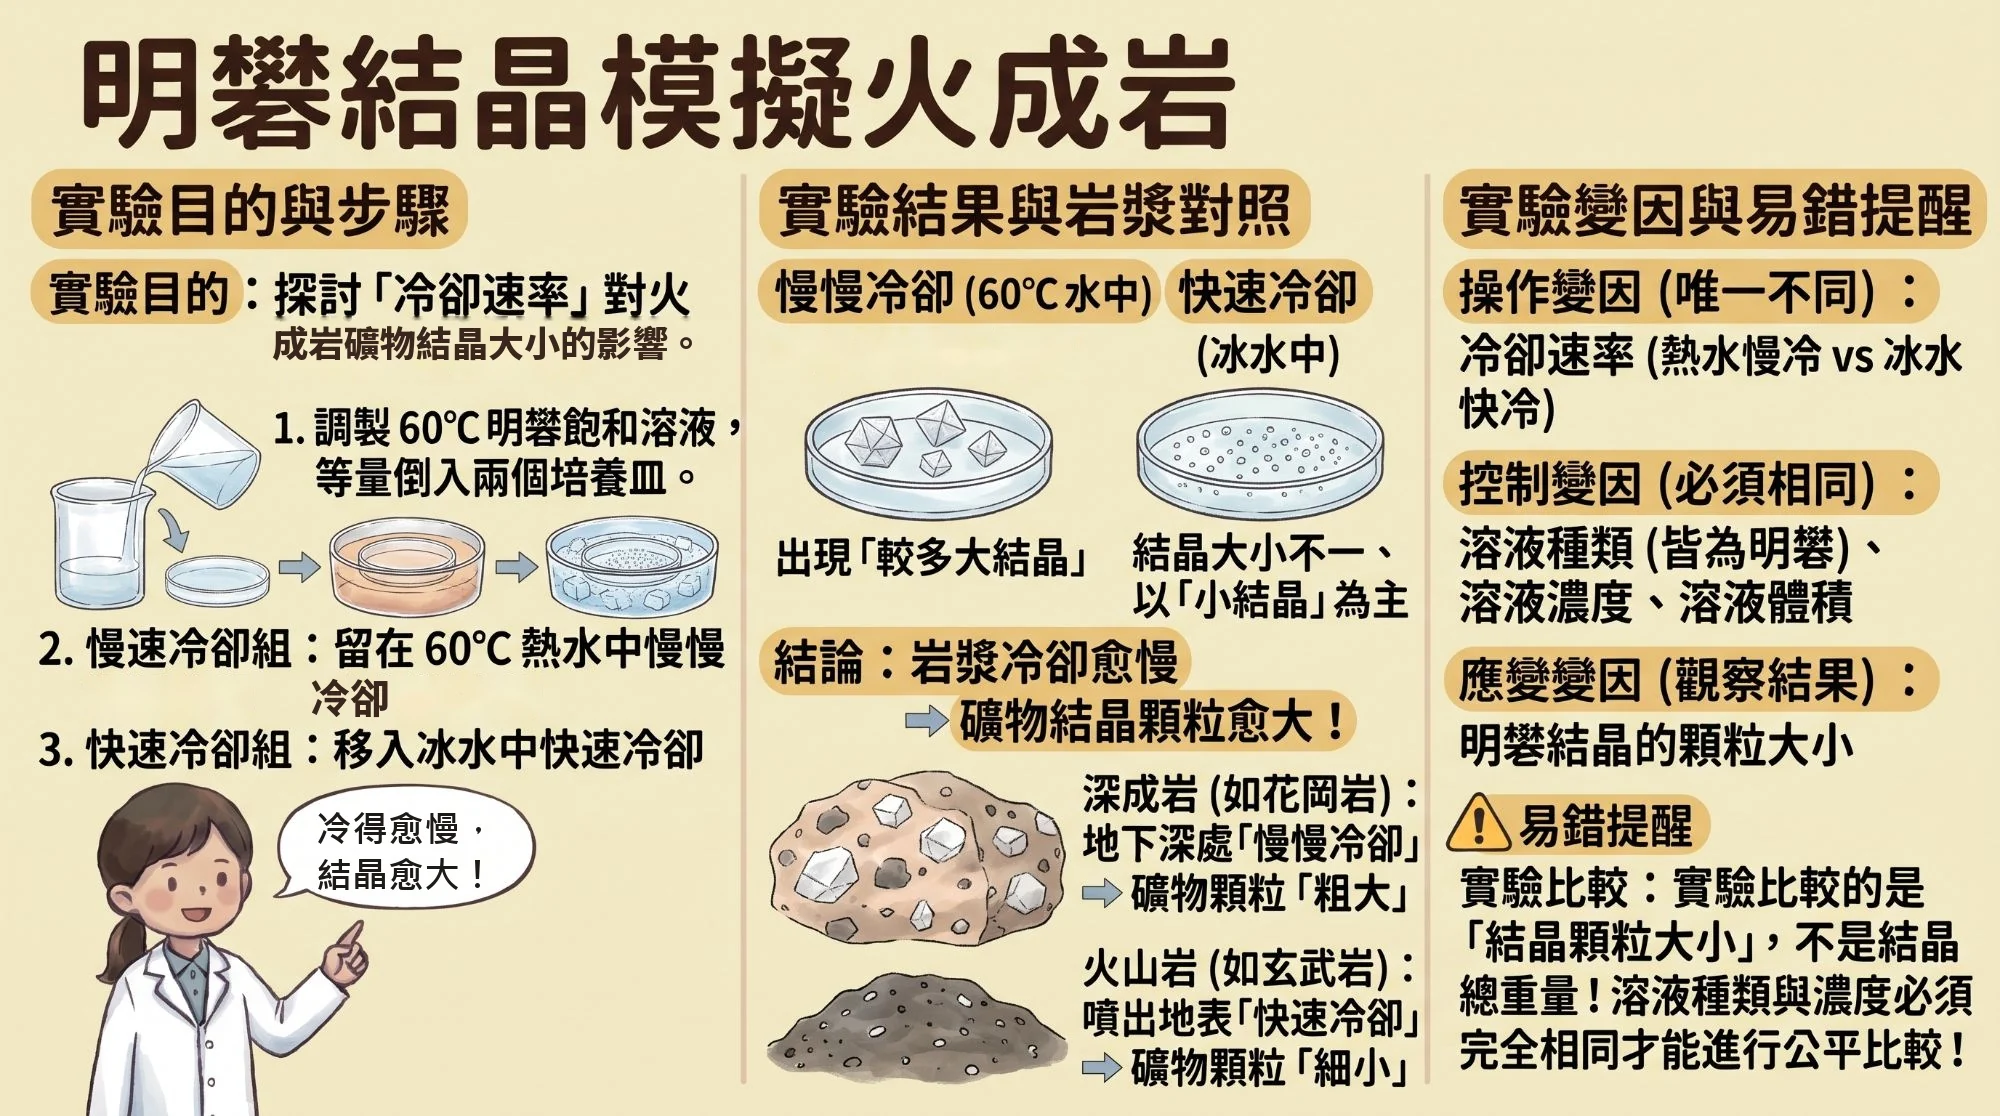
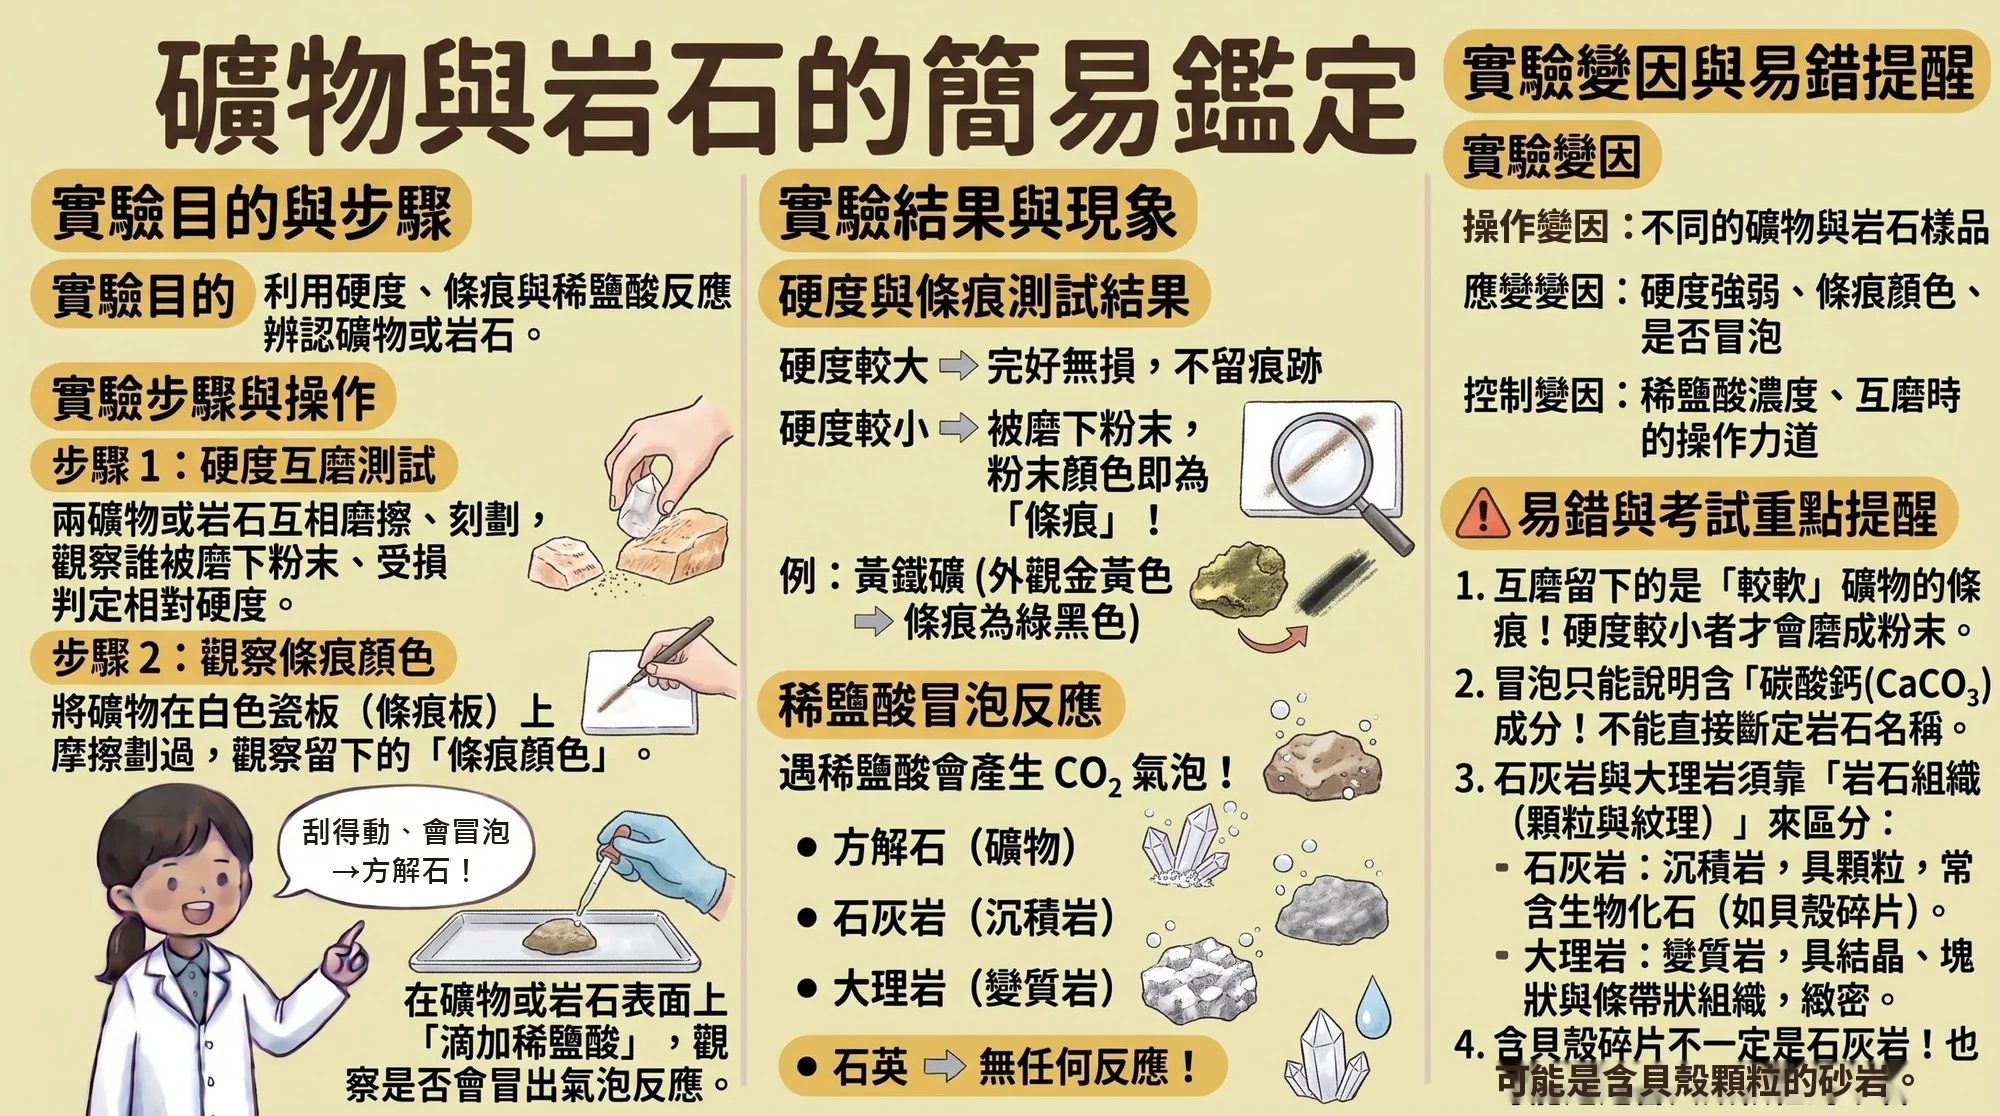
地科實驗圖解：礦物鑑定、沖積扇、突堤效應、土壤液化

diff --git a/assets/comics.js b/assets/comics.js
@@ -1,2 +1,2 @@
 // 漫畫清單（2026-11-19）：單元標題下的「看漫畫」按鈕。dir 在基地版會換成 comic/
-window.COMICS = { dir: '../assets/comic/', ...{"civics": {"2": [{"file": "civics-u2.webp", "title": "阿明家的家庭日：家庭型態與功能", "kind": "story"}], "3": [{"file": "civics-u3.webp", "title": "", "kind": "key"}], "4": [{"file": "civics-u4.webp", "title": "", "kind": "key"}], "5": [{"file": "civics-u5.webp", "title": "", "kind": "key"}], "6": [{"file": "civics-u6.webp", "title": "", "kind": "key"}], "7": [{"file": "civics-u7.webp", "title": "", "kind": "key"}], "8": [{"file": "civics-u8.webp", "title": "阿翔的電競筆電：民法管的是哪些事？", "kind": "story"}, {"file": "civics-u8-2.webp", "title": "", "kind": "key"}], "9": [{"file": "civics-u9.webp", "title": "腳踏車不見了：一件刑事案件怎麼走？", "kind": "story"}, {"file": "civics-u9-2.webp", "title": "", "kind": "key"}], "10": [{"file": "civics-u10.webp", "title": "阿翔家的一週：行政法和少年法律", "kind": "story"}, {"file": "civics-u10-2.webp", "title": "", "kind": "key"}], "11": [{"file": "civics-u11.webp", "title": "阿翔的星期六：選擇、誘因與資源分配", "kind": "story"}, {"file": "civics-u11-2.webp", "title": "", "kind": "key"}], "12": [{"file": "civics-u12.webp", "title": "", "kind": "key"}], "13": [{"file": "civics-u13.webp", "title": "", "kind": "key"}], "14": [{"file": "civics-u14.webp", "title": "", "kind": "key"}]}, "earth": {"1": [{"file": "earth-u1.webp", "title": "明礬結晶模擬火成岩", "kind": "lab"}]}, "history": {"2": [{"file": "history-u2.webp", "title": "東亞海域的各方勢力", "kind": "key"}, {"file": "history-u2-2.webp", "title": "荷、西在臺灣的競爭", "kind": "key"}, {"file": "history-u2-3.webp", "title": "荷蘭人治臺", "kind": "key"}, {"file": "history-u2-4.webp", "title": "鄭氏政權治臺", "kind": "key"}, {"file": "history-u2-5.webp", "title": "原住民與外來者的互動", "kind": "key"}], "3": [{"file": "history-u3.webp", "title": "清帝國前期的消極治臺與行政區劃", "kind": "key"}, {"file": "history-u3-2.webp", "title": "外力衝擊與積極治臺", "kind": "key"}, {"file": "history-u3-3.webp", "title": "農業拓墾與水利設施", "kind": "key"}, {"file": "history-u3-4.webp", "title": "對渡貿易與開港通商", "kind": "key"}, {"file": "history-u3-5.webp", "title": "移民社會的衝突：械鬥與民變", "kind": "key"}, {"file": "history-u3-6.webp", "title": "漢人社會文化變遷與西方文化傳入", "kind": "key"}, {"file": "history-u3-7.webp", "title": "原住民的社會文化變遷", "kind": "key"}], "4": [{"file": "history-u4.webp", "title": "殖民體制的建立", "kind": "key"}, {"file": "history-u4-2.webp", "title": "統治政策的轉變", "kind": "key"}, {"file": "history-u4-3.webp", "title": "日治時期的經濟發展", "kind": "key"}, {"file": "history-u4-4.webp", "title": "現代教育與社會運動", "kind": "key"}, {"file": "history-u4-5.webp", "title": "新舊文化的交替與衝擊", "kind": "key"}], "5": [{"file": "history-u5.webp", "title": "政權轉換與二二八事件", "kind": "key"}, {"file": "history-u5-2.webp", "title": "威權體制與白色恐怖", "kind": "key"}, {"file": "history-u5-3.webp", "title": "從戒嚴到民主化", "kind": "key"}, {"file": "history-u5-4.webp", "title": "外交局勢", "kind": "key"}, {"file": "history-u5-5.webp", "title": "兩岸關係", "kind": "key"}, {"file": "history-u5-6.webp", "title": "經濟發展及其影響", "kind": "key"}, {"file": "history-u5-7.webp", "title": "社會文化的變遷", "kind": "key"}], "6": [{"file": "history-u6.webp", "title": "商周的封建制度", "kind": "key"}, {"file": "history-u6-2.webp", "title": "東周的變革與封建崩解", "kind": "key"}, {"file": "history-u6-3.webp", "title": "秦朝的中央集權", "kind": "key"}, {"file": "history-u6-4.webp", "title": "選才制度的發展", "kind": "key"}, {"file": "history-u6-5.webp", "title": "農牧民族的互動與絲路", "kind": "key"}, {"file": "history-u6-6.webp", "title": "魏晉南北朝的胡漢融合與江南開發", "kind": "key"}, {"file": "history-u6-7.webp", "title": "隋唐的民族互動", "kind": "key"}, {"file": "history-u6-8.webp", "title": "宗教傳入與中國文化外傳", "kind": "key"}], "7": [{"file": "history-u7.webp", "title": "遼宋金的和戰", "kind": "key"}, {"file": "history-u7-2.webp", "title": "蒙古帝國與元朝統治", "kind": "key"}, {"file": "history-u7-3.webp", "title": "宋元的經濟與城市發展", "kind": "key"}, {"file": "history-u7-4.webp", "title": "宋元的學術科技與文化交流", "kind": "key"}, {"file": "history-u7-5.webp", "title": "明清政局變遷", "kind": "key"}, {"file": "history-u7-6.webp", "title": "天朝體制與東亞國際秩序", "kind": "key"}, {"file": "history-u7-7.webp", "title": "明清的商貿活動", "kind": "key"}, {"file": "history-u7-8.webp", "title": "明清的中西文化交流", "kind": "key"}], "8": [{"file": "history-u8.webp", "title": "鴉片戰爭與不平等條約", "kind": "key"}, {"file": "history-u8-2.webp", "title": "英法聯軍與自強運動", "kind": "key"}, {"file": "history-u8-3.webp", "title": "日本明治維新與東亞變局", "kind": "key"}, {"file": "history-u8-4.webp", "title": "甲午戰爭、瓜分危機與戊戌變法", "kind": "key"}, {"file": "history-u8-5.webp", "title": "八國聯軍、庚子後新政與立憲運動", "kind": "key"}, {"file": "history-u8-6.webp", "title": "晚清社會文化的變遷", "kind": "key"}], "9": [{"file": "history-u9.webp", "title": "辛亥革命與民國建立", "kind": "key"}, {"file": "history-u9-2.webp", "title": "袁世凱當權與軍閥統治", "kind": "key"}, {"file": "history-u9-3.webp", "title": "山東問題與五四運動", "kind": "key"}, {"file": "history-u9-4.webp", "title": "新文化運動與社會變遷", "kind": "key"}, {"file": "history-u9-5.webp", "title": "北伐統一與十年建設", "kind": "key"}, {"file": "history-u9-6.webp", "title": "國共衝突與西安事變", "kind": "key"}, {"file": "history-u9-7.webp", "title": "日本擴張與中日戰爭", "kind": "key"}, {"file": "history-u9-8.webp", "title": "太平洋戰爭與戰時外交", "kind": "key"}], "10": [{"file": "history-u10.webp", "title": "國共內戰", "kind": "key"}, {"file": "history-u10-2.webp", "title": "中共建政初期與文化大革命", "kind": "key"}, {"file": "history-u10-3.webp", "title": "改革開放與六四天安門事件", "kind": "key"}, {"file": "history-u10-4.webp", "title": "冷戰與韓戰、越戰", "kind": "key"}, {"file": "history-u10-5.webp", "title": "中美蘇關係的轉變", "kind": "key"}, {"file": "history-u10-6.webp", "title": "東南亞地區的國際組織", "kind": "key"}], "11": [{"file": "history-u11.webp", "title": "西亞古文明", "kind": "key"}, {"file": "history-u11-2.webp", "title": "埃及古文明", "kind": "key"}, {"file": "history-u11-3.webp", "title": "希臘古典文明", "kind": "key"}, {"file": "history-u11-4.webp", "title": "亞歷山大帝國與希臘化文化", "kind": "key"}, {"file": "history-u11-5.webp", "title": "羅馬的政治與文化", "kind": "key"}, {"file": "history-u11-6.webp", "title": "佛教的起源與發展", "kind": "key"}, {"file": "history-u11-7.webp", "title": "基督教的起源與發展", "kind": "key"}, {"file": "history-u11-8.webp", "title": "伊斯蘭教的起源與發展", "kind": "key"}], "12": [{"file": "history-u12.webp", "title": "文藝復興", "kind": "key"}, {"file": "history-u12-2.webp", "title": "宗教改革", "kind": "key"}, {"file": "history-u12-3.webp", "title": "大航海時代與歐洲海外擴張", "kind": "key"}, {"file": "history-u12-4.webp", "title": "歐洲殖民與多元世界的互動", "kind": "key"}, {"file": "history-u12-5.webp", "title": "科學革命", "kind": "key"}, {"file": "history-u12-6.webp", "title": "啟蒙運動", "kind": "key"}, {"file": "history-u12-7.webp", "title": "美國獨立", "kind": "key"}, {"file": "history-u12-8.webp", "title": "法國大革命與拿破崙", "kind": "key"}], "13": [{"file": "history-u13.webp", "title": "工業革命", "kind": "key"}, {"file": "history-u13-2.webp", "title": "歐美的政治革命", "kind": "key"}, {"file": "history-u13-3.webp", "title": "中南美洲獨立運動", "kind": "key"}, {"file": "history-u13-4.webp", "title": "德意志與義大利的統一", "kind": "key"}, {"file": "history-u13-5.webp", "title": "帝國主義的再擴張", "kind": "key"}, {"file": "history-u13-6.webp", "title": "第一次世界大戰", "kind": "key"}, {"file": "history-u13-7.webp", "title": "戰後秩序重建", "kind": "key"}], "14": [{"file": "history-u14.webp", "title": "蘇聯共產政權的建立與發展", "kind": "key"}, {"file": "history-u14-2.webp", "title": "經濟大恐慌與羅斯福新政", "kind": "key"}, {"file": "history-u14-3.webp", "title": "義、德極權政體的興起", "kind": "key"}, {"file": "history-u14-4.webp", "title": "二戰前局勢與綏靖政策", "kind": "key"}, {"file": "history-u14-5.webp", "title": "第二次世界大戰的爆發與經過", "kind": "key"}, {"file": "history-u14-6.webp", "title": "冷戰的形成與危機", "kind": "key"}, {"file": "history-u14-7.webp", "title": "第三世界與冷戰結束", "kind": "key"}]}} };
+window.COMICS = { dir: '../assets/comic/', ...{"civics": {"2": [{"file": "civics-u2.webp", "title": "阿明家的家庭日：家庭型態與功能", "kind": "story"}], "3": [{"file": "civics-u3.webp", "title": "", "kind": "key"}], "4": [{"file": "civics-u4.webp", "title": "", "kind": "key"}], "5": [{"file": "civics-u5.webp", "title": "", "kind": "key"}], "6": [{"file": "civics-u6.webp", "title": "", "kind": "key"}], "7": [{"file": "civics-u7.webp", "title": "", "kind": "key"}], "8": [{"file": "civics-u8.webp", "title": "阿翔的電競筆電：民法管的是哪些事？", "kind": "story"}, {"file": "civics-u8-2.webp", "title": "", "kind": "key"}], "9": [{"file": "civics-u9.webp", "title": "腳踏車不見了：一件刑事案件怎麼走？", "kind": "story"}, {"file": "civics-u9-2.webp", "title": "", "kind": "key"}], "10": [{"file": "civics-u10.webp", "title": "阿翔家的一週：行政法和少年法律", "kind": "story"}, {"file": "civics-u10-2.webp", "title": "", "kind": "key"}], "11": [{"file": "civics-u11.webp", "title": "阿翔的星期六：選擇、誘因與資源分配", "kind": "story"}, {"file": "civics-u11-2.webp", "title": "", "kind": "key"}], "12": [{"file": "civics-u12.webp", "title": "", "kind": "key"}], "13": [{"file": "civics-u13.webp", "title": "", "kind": "key"}], "14": [{"file": "civics-u14.webp", "title": "", "kind": "key"}]}, "earth": {"1": [{"file": "earth-u1.webp", "title": "礦物與岩石的簡易鑑定", "kind": "lab"}, {"file": "earth-u1-2.webp", "title": "明礬結晶模擬火成岩", "kind": "lab"}, {"file": "earth-u1-3.webp", "title": "沖積扇外形影響因素模擬實驗", "kind": "lab"}, {"file": "earth-u1-4.webp", "title": "水槽模擬突堤效應", "kind": "lab"}], "2": [{"file": "earth-u2.webp", "title": "含水量對土壤液化的影響", "kind": "lab"}]}, "history": {"2": [{"file": "history-u2.webp", "title": "東亞海域的各方勢力", "kind": "key"}, {"file": "history-u2-2.webp", "title": "荷、西在臺灣的競爭", "kind": "key"}, {"file": "history-u2-3.webp", "title": "荷蘭人治臺", "kind": "key"}, {"file": "history-u2-4.webp", "title": "鄭氏政權治臺", "kind": "key"}, {"file": "history-u2-5.webp", "title": "原住民與外來者的互動", "kind": "key"}], "3": [{"file": "history-u3.webp", "title": "清帝國前期的消極治臺與行政區劃", "kind": "key"}, {"file": "history-u3-2.webp", "title": "外力衝擊與積極治臺", "kind": "key"}, {"file": "history-u3-3.webp", "title": "農業拓墾與水利設施", "kind": "key"}, {"file": "history-u3-4.webp", "title": "對渡貿易與開港通商", "kind": "key"}, {"file": "history-u3-5.webp", "title": "移民社會的衝突：械鬥與民變", "kind": "key"}, {"file": "history-u3-6.webp", "title": "漢人社會文化變遷與西方文化傳入", "kind": "key"}, {"file": "history-u3-7.webp", "title": "原住民的社會文化變遷", "kind": "key"}], "4": [{"file": "history-u4.webp", "title": "殖民體制的建立", "kind": "key"}, {"file": "history-u4-2.webp", "title": "統治政策的轉變", "kind": "key"}, {"file": "history-u4-3.webp", "title": "日治時期的經濟發展", "kind": "key"}, {"file": "history-u4-4.webp", "title": "現代教育與社會運動", "kind": "key"}, {"file": "history-u4-5.webp", "title": "新舊文化的交替與衝擊", "kind": "key"}], "5": [{"file": "history-u5.webp", "title": "政權轉換與二二八事件", "kind": "key"}, {"file": "history-u5-2.webp", "title": "威權體制與白色恐怖", "kind": "key"}, {"file": "history-u5-3.webp", "title": "從戒嚴到民主化", "kind": "key"}, {"file": "history-u5-4.webp", "title": "外交局勢", "kind": "key"}, {"file": "history-u5-5.webp", "title": "兩岸關係", "kind": "key"}, {"file": "history-u5-6.webp", "title": "經濟發展及其影響", "kind": "key"}, {"file": "history-u5-7.webp", "title": "社會文化的變遷", "kind": "key"}], "6": [{"file": "history-u6.webp", "title": "商周的封建制度", "kind": "key"}, {"file": "history-u6-2.webp", "title": "東周的變革與封建崩解", "kind": "key"}, {"file": "history-u6-3.webp", "title": "秦朝的中央集權", "kind": "key"}, {"file": "history-u6-4.webp", "title": "選才制度的發展", "kind": "key"}, {"file": "history-u6-5.webp", "title": "農牧民族的互動與絲路", "kind": "key"}, {"file": "history-u6-6.webp", "title": "魏晉南北朝的胡漢融合與江南開發", "kind": "key"}, {"file": "history-u6-7.webp", "title": "隋唐的民族互動", "kind": "key"}, {"file": "history-u6-8.webp", "title": "宗教傳入與中國文化外傳", "kind": "key"}], "7": [{"file": "history-u7.webp", "title": "遼宋金的和戰", "kind": "key"}, {"file": "history-u7-2.webp", "title": "蒙古帝國與元朝統治", "kind": "key"}, {"file": "history-u7-3.webp", "title": "宋元的經濟與城市發展", "kind": "key"}, {"file": "history-u7-4.webp", "title": "宋元的學術科技與文化交流", "kind": "key"}, {"file": "history-u7-5.webp", "title": "明清政局變遷", "kind": "key"}, {"file": "history-u7-6.webp", "title": "天朝體制與東亞國際秩序", "kind": "key"}, {"file": "history-u7-7.webp", "title": "明清的商貿活動", "kind": "key"}, {"file": "history-u7-8.webp", "title": "明清的中西文化交流", "kind": "key"}], "8": [{"file": "history-u8.webp", "title": "鴉片戰爭與不平等條約", "kind": "key"}, {"file": "history-u8-2.webp", "title": "英法聯軍與自強運動", "kind": "key"}, {"file": "history-u8-3.webp", "title": "日本明治維新與東亞變局", "kind": "key"}, {"file": "history-u8-4.webp", "title": "甲午戰爭、瓜分危機與戊戌變法", "kind": "key"}, {"file": "history-u8-5.webp", "title": "八國聯軍、庚子後新政與立憲運動", "kind": "key"}, {"file": "history-u8-6.webp", "title": "晚清社會文化的變遷", "kind": "key"}], "9": [{"file": "history-u9.webp", "title": "辛亥革命與民國建立", "kind": "key"}, {"file": "history-u9-2.webp", "title": "袁世凱當權與軍閥統治", "kind": "key"}, {"file": "history-u9-3.webp", "title": "山東問題與五四運動", "kind": "key"}, {"file": "history-u9-4.webp", "title": "新文化運動與社會變遷", "kind": "key"}, {"file": "history-u9-5.webp", "title": "北伐統一與十年建設", "kind": "key"}, {"file": "history-u9-6.webp", "title": "國共衝突與西安事變", "kind": "key"}, {"file": "history-u9-7.webp", "title": "日本擴張與中日戰爭", "kind": "key"}, {"file": "history-u9-8.webp", "title": "太平洋戰爭與戰時外交", "kind": "key"}], "10": [{"file": "history-u10.webp", "title": "國共內戰", "kind": "key"}, {"file": "history-u10-2.webp", "title": "中共建政初期與文化大革命", "kind": "key"}, {"file": "history-u10-3.webp", "title": "改革開放與六四天安門事件", "kind": "key"}, {"file": "history-u10-4.webp", "title": "冷戰與韓戰、越戰", "kind": "key"}, {"file": "history-u10-5.webp", "title": "中美蘇關係的轉變", "kind": "key"}, {"file": "history-u10-6.webp", "title": "東南亞地區的國際組織", "kind": "key"}], "11": [{"file": "history-u11.webp", "title": "西亞古文明", "kind": "key"}, {"file": "history-u11-2.webp", "title": "埃及古文明", "kind": "key"}, {"file": "history-u11-3.webp", "title": "希臘古典文明", "kind": "key"}, {"file": "history-u11-4.webp", "title": "亞歷山大帝國與希臘化文化", "kind": "key"}, {"file": "history-u11-5.webp", "title": "羅馬的政治與文化", "kind": "key"}, {"file": "history-u11-6.webp", "title": "佛教的起源與發展", "kind": "key"}, {"file": "history-u11-7.webp", "title": "基督教的起源與發展", "kind": "key"}, {"file": "history-u11-8.webp", "title": "伊斯蘭教的起源與發展", "kind": "key"}], "12": [{"file": "history-u12.webp", "title": "文藝復興", "kind": "key"}, {"file": "history-u12-2.webp", "title": "宗教改革", "kind": "key"}, {"file": "history-u12-3.webp", "title": "大航海時代與歐洲海外擴張", "kind": "key"}, {"file": "history-u12-4.webp", "title": "歐洲殖民與多元世界的互動", "kind": "key"}, {"file": "history-u12-5.webp", "title": "科學革命", "kind": "key"}, {"file": "history-u12-6.webp", "title": "啟蒙運動", "kind": "key"}, {"file": "history-u12-7.webp", "title": "美國獨立", "kind": "key"}, {"file": "history-u12-8.webp", "title": "法國大革命與拿破崙", "kind": "key"}], "13": [{"file": "history-u13.webp", "title": "工業革命", "kind": "key"}, {"file": "history-u13-2.webp", "title": "歐美的政治革命", "kind": "key"}, {"file": "history-u13-3.webp", "title": "中南美洲獨立運動", "kind": "key"}, {"file": "history-u13-4.webp", "title": "德意志與義大利的統一", "kind": "key"}, {"file": "history-u13-5.webp", "title": "帝國主義的再擴張", "kind": "key"}, {"file": "history-u13-6.webp", "title": "第一次世界大戰", "kind": "key"}, {"file": "history-u13-7.webp", "title": "戰後秩序重建", "kind": "key"}], "14": [{"file": "history-u14.webp", "title": "蘇聯共產政權的建立與發展", "kind": "key"}, {"file": "history-u14-2.webp", "title": "經濟大恐慌與羅斯福新政", "kind": "key"}, {"file": "history-u14-3.webp", "title": "義、德極權政體的興起", "kind": "key"}, {"file": "history-u14-4.webp", "title": "二戰前局勢與綏靖政策", "kind": "key"}, {"file": "history-u14-5.webp", "title": "第二次世界大戰的爆發與經過", "kind": "key"}, {"file": "history-u14-6.webp", "title": "冷戰的形成與危機", "kind": "key"}, {"file": "history-u14-7.webp", "title": "第三世界與冷戰結束", "kind": "key"}]}} };
